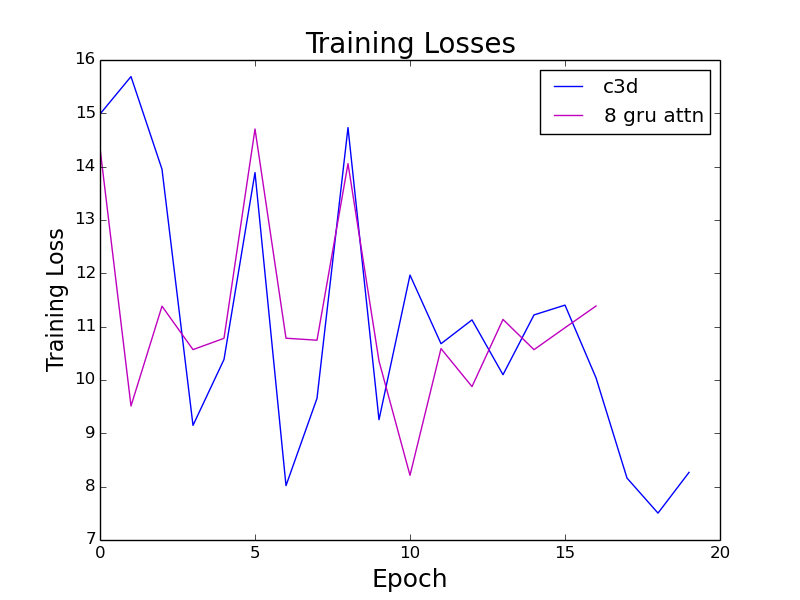
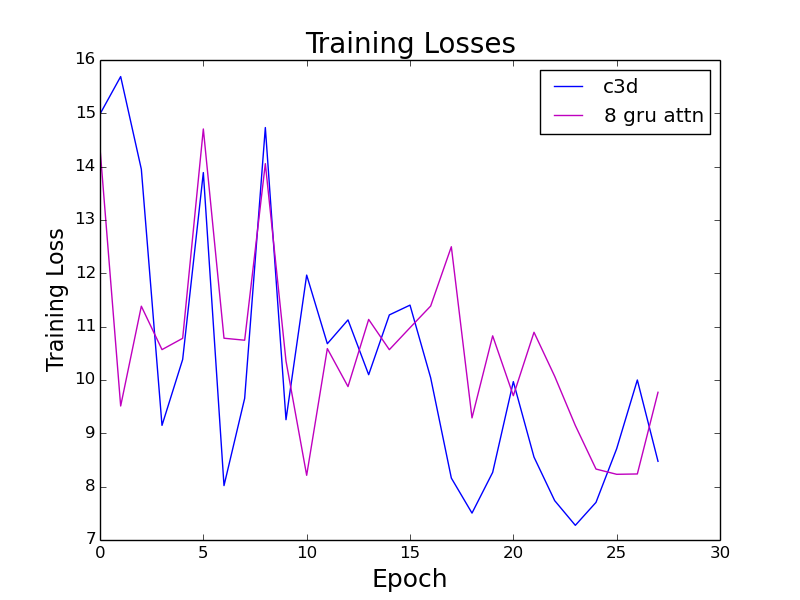
8 lstm layers

diff --git a/MTL-AQA_code_release/train_test_C3DAVG.py b/MTL-AQA_code_release/train_test_C3DAVG.py
@@ -32,11 +32,11 @@ torch.backends.cudnn.deterministic=True
 
 current_run = 1 # CHANGE THIS FOR LOG FILE (BEFORE RUNNING HAPPENS)
 # train_logging_file_name = "c3davg_train_logging_file_" + str(current_run) + ".txt"
-train_logging_file_name = "c3davg_8_gru_attn_train_logging_file_" + str(current_run) + ".txt"
+train_logging_file_name = "c3davg_8_lstm_attn_train_logging_file_" + str(current_run) + ".txt"
 train_logging_file = open(train_logging_file_name,"x")
 train_logging_file.close()
 # test_logging_file_name = "c3davg_test_logging_file_" + str(current_run) + ".txt"
-test_logging_file_name = "c3davg_8_gru_attn_test_logging_file_" + str(current_run) + ".txt"
+test_logging_file_name = "c3davg_8_lstm_attn_test_logging_file_" + str(current_run) + ".txt"
 test_logging_file = open(test_logging_file_name, "x")
 test_logging_file.close()
 
@@ -259,7 +259,7 @@ def main():
     # actual training, testing loops
     for epoch in range(100):
         # saving_dir = 'c3davg_140_saved' # ADDED PATH FOR SAVING DIRECTORY
-        saving_dir = 'c3davg_8_gru_attn_140_saved' # ADDED PATH FOR SAVING DIRECTORY
+        saving_dir = 'c3davg_8_lstm_attn_140_saved' # ADDED PATH FOR SAVING DIRECTORY
         print('-------------------------------------------------------------------------------------------------------')
         for param_group in optimizer.param_groups:
             print('Current learning rate: ', param_group['lr'])

diff --git a/MTL-AQA_code_release/parse.py b/MTL-AQA_code_release/parse.py
@@ -210,10 +210,10 @@ def best_fit(X, Y):
 
 
 # plt.plot(range(len(losses[:20])), losses[:20], '-r', label = 'c3d attn')
-plt.plot(range(len(losses_2[:20])), losses_2[:20], '-b', label = 'c3d')
+plt.plot(range(len(losses_2[:28])), losses_2[:28], '-b', label = 'c3d')
 # plt.plot(range(len(losses_3)[:20]), losses_3[:20], '-g', label = 's3d')
 # plt.plot(range(len(losses_4[:20])), losses_4[:20], '-k', label = 's3d attn')
-plt.plot(range(len(losses_5[:20])), losses_5[:20], '-m', label = '8 gru attn')
+plt.plot(range(len(losses_5[:28])), losses_5[:28], '-m', label = '8 gru attn')
 plt.legend()
 
 

diff --git a/MTL-AQA_code_release/opts.py b/MTL-AQA_code_release/opts.py
@@ -42,8 +42,8 @@ vocab_size = 5779
 caption_lstm_dim_hidden = 512
 caption_lstm_dim_word = 512
 caption_lstm_dim_vid = 8192 #C3D-AVG: 8192; MSCADC: 1200
-caption_lstm_cell_type = 'gru'
-# caption_lstm_cell_type = 'lstm'
+# caption_lstm_cell_type = 'gru'
+caption_lstm_cell_type = 'lstm'
 # caption_lstm_num_layers = 2
 caption_lstm_num_layers = 8
 caption_lstm_dropout = 0.5

diff --git a/MTL-AQA_code_release/models/C3DAVG/C3D_altered.py b/MTL-AQA_code_release/models/C3DAVG/C3D_altered.py
@@ -64,8 +64,6 @@ class C3D_altered(nn.Module):
         h = self.relu(self.conv5a(h))
         h = self.relu(self.conv5b(h))
         h = self.pool5(h)
-        print("shape of h")
-        print(h.shape)
         h = h.view(-1, 8192)
         return h
 
